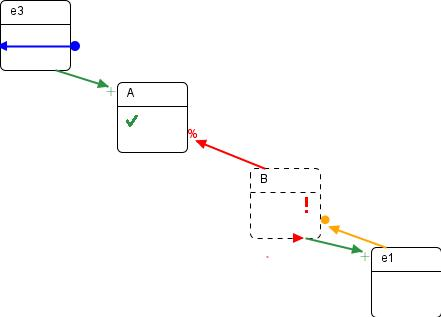
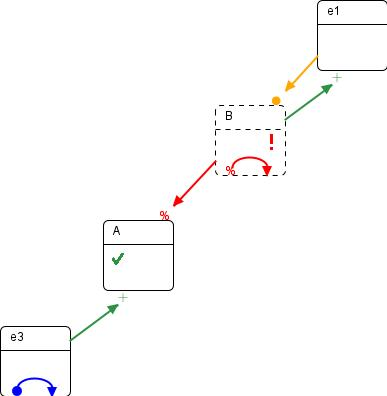
fixed nodes drawing to themselves

diff --git a/src/main/java/dk/ku/di/oodcr/visualizer/Visualizer.java b/src/main/java/dk/ku/di/oodcr/visualizer/Visualizer.java
@@ -128,14 +128,15 @@ public class Visualizer {
         Line2D line = null;
         var angle = angleBetweenNodes(nodeFrom, nodeTo);
 
-        if (nodeFrom == nodeTo){
+        if (nodeFrom.equals(nodeTo)){
             arc = new Arc2D.Float();
             arc.x = nodeFrom.X + Node.Width / 4;
-            arc.y = nodeFrom.Y + Node.Height;
+            arc.y = nodeFrom.Y + 3 * Node.Height / 4;
             arc.height = 20;
+            arc.width = 2 * Node.Width / 4;
             arc.extent = 10;
-            arc.start = nodeFrom.X + Node.Width / 4;
-            symbolPosition = new Point(3 * nodeFrom.X + Node.Width / 4, nodeFrom.Y + Node.Height);
+            arc.start = 45;
+            symbolPosition = new Point(nodeFrom.X + Node.Width / 4 - symbolMargin / 2, nodeFrom.Y + Node.Height);
         } else if (angle <= -150 || angle > 150) {
             symbolPosition = new Point(nodeTo.X + Node.Width, nodeTo.Y + Node.Height / 3 + 2 * symbolMargin / 5);
             if (-170 < angle && angle < -150)
@@ -184,7 +185,15 @@ public class Visualizer {
 
         if (relationshipType == RelationshipType.RESPONSES) {
             var symbolRadius = 5;
-            if (angle <= -150 || angle > 150)
+            if (nodeFrom.equals(nodeTo)){
+                arc = new Arc2D.Float();
+                arc.x = nodeFrom.X + Node.Width / 4;
+                arc.y = nodeFrom.Y + 3 * Node.Height / 4;
+                arc.height = 20;
+                arc.width = 2 * Node.Width / 4;
+                arc.extent = 10;
+                arc.start = 45;
+            } else if (angle <= -150 || angle > 150)
                 line = new Line2D.Float(nodeFrom.X - symbolRadius, nodeFrom.Y + Node.Height / 3, nodeTo.X + Node.Width + 2, nodeTo.Y + Node.Height / 3);
             else if (-150 <= angle && angle < -120)
                 line = new Line2D.Float(nodeFrom.X + Node.Width / 5, nodeFrom.Y - symbolRadius, nodeTo.X + Node.Width + 2, nodeTo.Y + 4 * Node.Height / 5);
@@ -205,7 +214,7 @@ public class Visualizer {
             if (line != null)
                 drawPolygonRelativeToLine(g, line, circle, RelativePosition.Start);
             else if (arc != null)
-                drawPolygonRelativeToLine(g, new Line2D.Float(arc.x, arc.y, 0,0), circle, RelativePosition.Start);
+                drawPolygonRelativeToLine(g, new Line2D.Float(arc.x, nodeFrom.Y + Node.Height - (int)(circle.height / 2), 0,0), circle, RelativePosition.Start);
             else
                 throw new NullPointerException("Relation line and arc was never set");
         }
@@ -219,8 +228,8 @@ public class Visualizer {
             drawPolygonRelativeToLine(g, line, arrowHead, RelativePosition.End);
             g.draw(line);
         } else if (arc != null) {
-            drawPolygonRelativeToLine(g, new Line2D.Float(arc.x, arc.y, nodeFrom.X + 3 * Node.Width / 4, nodeFrom.Y + Node.Height), arrowHead, RelativePosition.End);
-            g.draw(arc);
+            drawPolygonRelativeToLine(g, new Line2D.Float(nodeFrom.X + 3 * Node.Width / 4, arc.y, nodeFrom.X + 3 * Node.Width / 4, nodeFrom.Y + Node.Height), arrowHead, RelativePosition.End);
+            g.drawArc((int)arc.x, (int)arc.y, (int)arc.width, (int)arc.height, 0, 180);
         }
         else
             throw new NullPointerException("Relation line and arc was never set");

diff --git a/src/main/java/dk/ku/di/oodcr/graph/Event.java b/src/main/java/dk/ku/di/oodcr/graph/Event.java
@@ -2,9 +2,12 @@ package dk.ku.di.oodcr.graph;
 
 import java.util.HashMap;
 import java.util.HashSet;
+import java.util.Objects;
+import java.util.UUID;
 
 public class Event {
 
+	public UUID id;
 	public String name;
 	public String label;
 	
@@ -14,6 +17,7 @@ public class Event {
 
 	public Event(String n, String l)
 	{
+		id = UUID.randomUUID();
 		name = n;
 		label = l;
 		relationships = new HashMap<>();
@@ -73,5 +77,18 @@ public class Event {
 	public boolean isAccepting()
 	{
 		return (!(marking.pending && marking.included));		
+	}
+
+	@Override
+	public boolean equals(Object o) {
+		if (this == o) return true;
+		if (o == null || getClass() != o.getClass()) return false;
+		Event event = (Event) o;
+		return Objects.equals(id, event.id);
+	}
+
+	@Override
+	public int hashCode() {
+		return Objects.hash(id);
 	}
 }

diff --git a/src/main/java/dk/ku/di/oodcr/Main.java b/src/main/java/dk/ku/di/oodcr/Main.java
@@ -9,12 +9,16 @@ import dk.ku.di.oodcr.visualizer.layoutalgorithms.FRLayoutAlgorithm;
 import org.antlr.v4.runtime.CharStreams;
 import org.antlr.v4.runtime.CommonTokenStream;
 
+import javax.imageio.ImageIO;
+import java.awt.*;
+import java.awt.geom.Line2D;
+import java.awt.image.BufferedImage;
 import java.io.*;
 import java.nio.charset.StandardCharsets;
 
 public class Main {
 
-    public static void main(String[] args) {
+    public static void main(String[] args) throws IOException {
         if (args.length < 1) {
             System.out.println("Usage: jar DCRGraphVis [options] <input file>");
             System.out.println("\n Options:");
